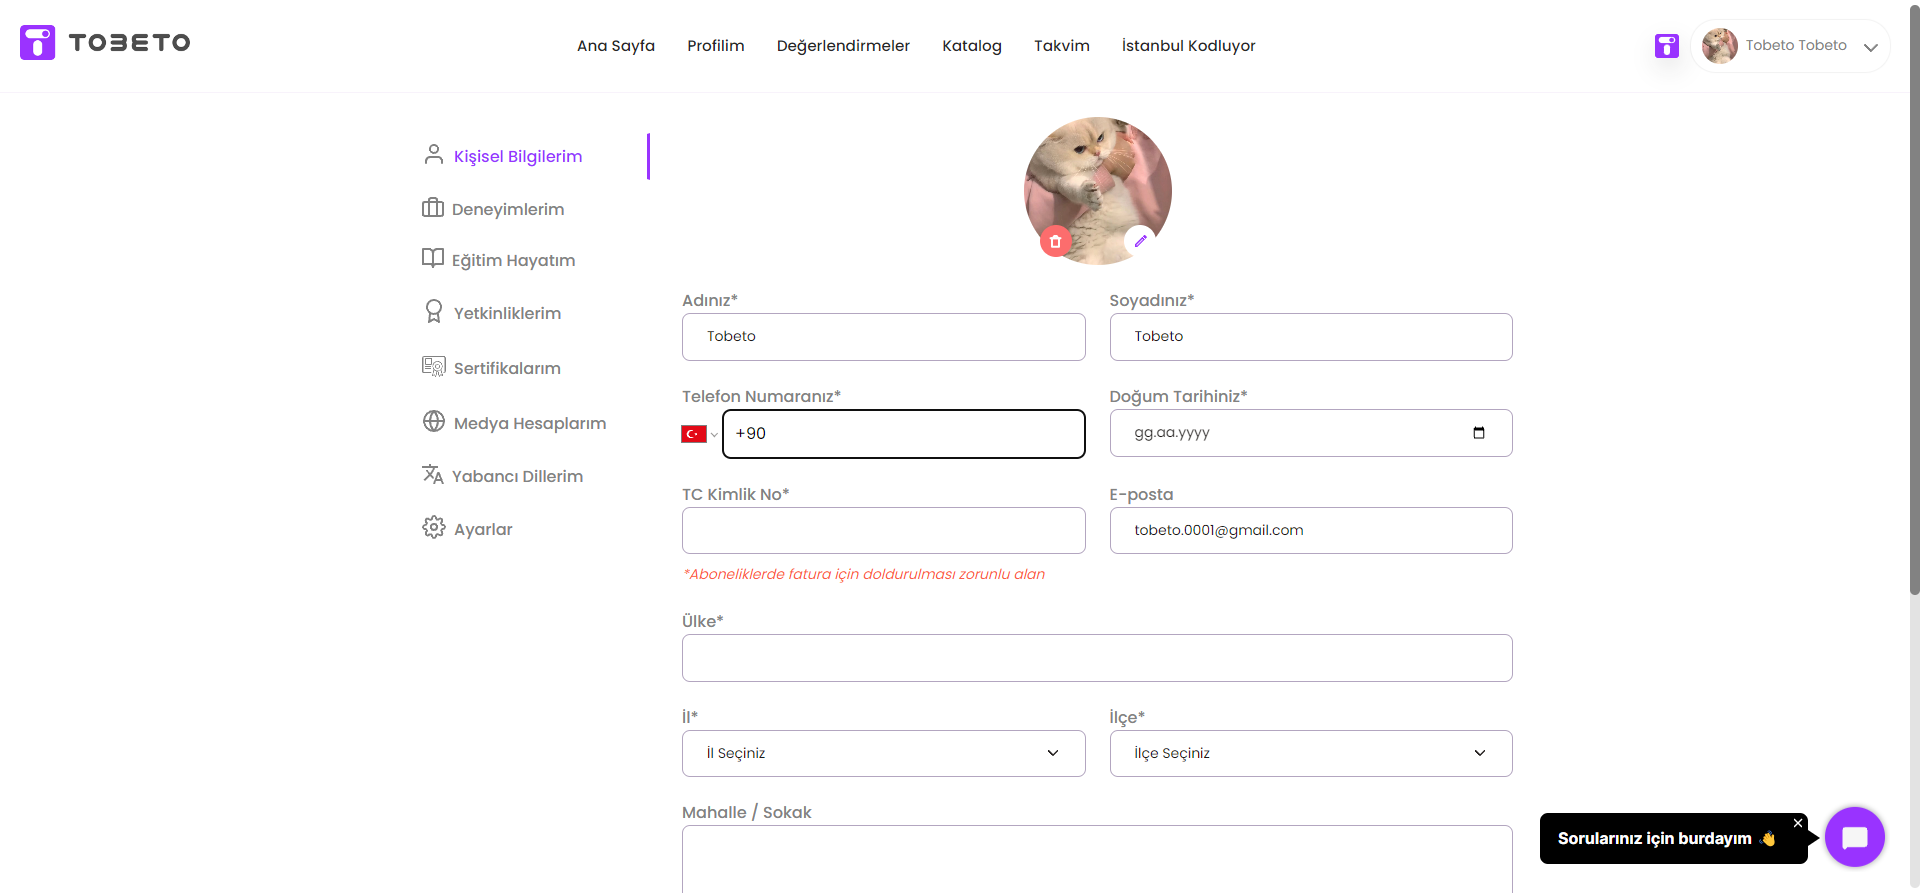
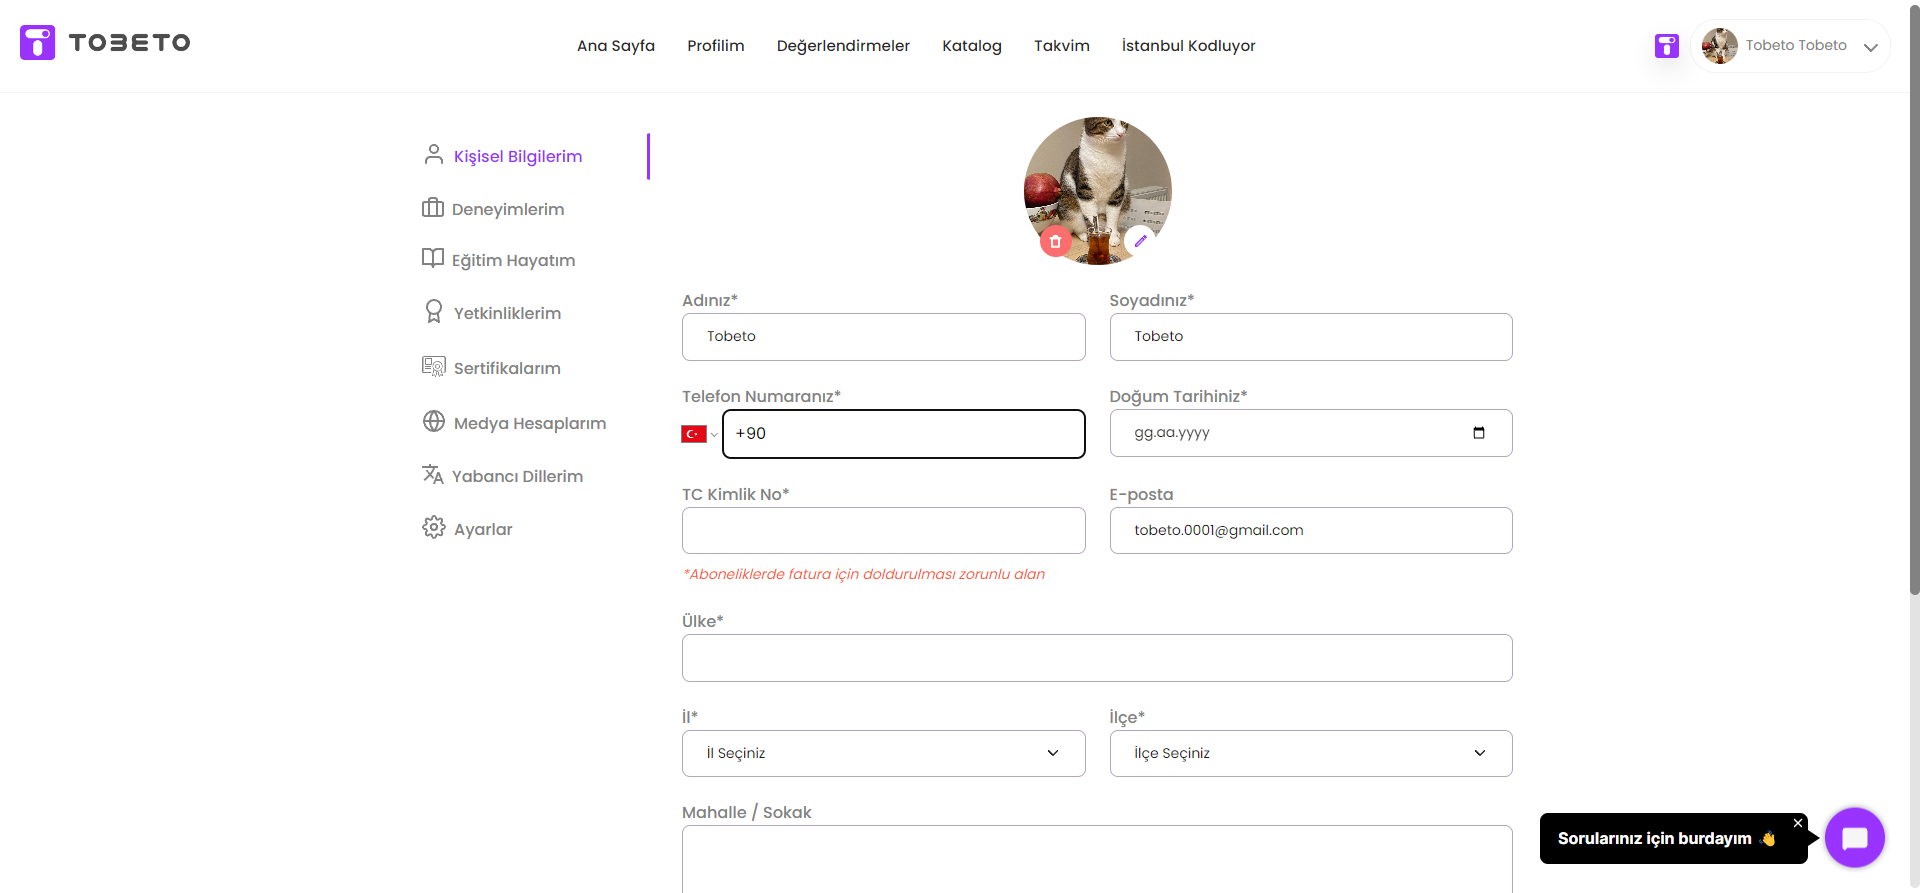
api token değişti allure report eklendi

Changed region(s): [[0.5312, 0.1209, 0.625, 0.3024], [0.875, 0.0302, 0.9062, 0.0907]]

diff --git a/tests/test_kisisel_bilgilerim.py b/tests/test_kisisel_bilgilerim.py
@@ -5,10 +5,12 @@ from pages.kisisel_bilgilerim import *
 from pages.giris import *
 from pages.PageBase import PageBase
 import softest
+import allure
 
 @pytest.mark.usefixtures("setup")
 class TestTobetoKisisel(softest.TestCase,PageBase):
-    
+
+    @allure.title("Kisisel Bilgilerim sayfasının arayüz kontrolü")
     def test_kisisel_bilgilerim_arayuz_kontrolu(self):
         
         page_base=PageBase(self.driver) 
@@ -47,6 +49,7 @@ class TestTobetoKisisel(softest.TestCase,PageBase):
         self.assert_all()
         profil_olustur.il_ilce_liste_kontrolu()
     
+    @allure.title("Profil fotoğrafının değiştirilmesi")
     def test_profil_fotografi_degisitirmesi(self):
         
         page_base=PageBase(self.driver) 
@@ -68,6 +71,7 @@ class TestTobetoKisisel(softest.TestCase,PageBase):
         time.sleep(10)
         profil_olustur.foto_cek2()
 
+    @allure.title("Doldurulması zorunlu alanların kontrolü")
     def test_doldurulmasi_zorunlu_alanlarin_kontrolu(self):
 
         page_base=PageBase(self.driver) 
@@ -88,7 +92,8 @@ class TestTobetoKisisel(softest.TestCase,PageBase):
         self.soft_assert(self.assertEqual, profil_olustur.mahalle_uyari_alani(),MAHALLE_UYARI_TEXT, "Uyari mesaji goruntulenemedi")
         self.soft_assert(self.assertEqual, profil_olustur.hakkimda_uyari_alani(),HAKKIMDA_UYARI_TEXT, "Uyari mesaji goruntulenemedi")
         self.assert_all()
-        
+    
+    @allure.title("TC kimlik alanına geçersiz karakter girilmesi")
     def test_tc_kimlik_gecersiz_karakter_girme(self):
 
         page_base=PageBase(self.driver) 
@@ -105,6 +110,7 @@ class TestTobetoKisisel(softest.TestCase,PageBase):
         
         time.sleep(2)
     
+    @allure.title("TC kimlik alanına fazla karakter girilmesi")
     def test_tc_kimlik_onbir_haneden_fazla_karakter_girme(self):
 
         page_base=PageBase(self.driver) 

diff --git a/tests_API/test_API_kisisel_bilgilerim.py b/tests_API/test_API_kisisel_bilgilerim.py
@@ -3,7 +3,7 @@ import requests
 import json
 import softest
 from tests_API.API_constants import *
-import API_get_token
+from API_get_token import *
 
 
 class TestAPI_kisisel_bilgilerim(softest.TestCase):
@@ -11,7 +11,7 @@ class TestAPI_kisisel_bilgilerim(softest.TestCase):
     def test_GET_kisisel_bilgilerim(self):
 
         end_point = base_url + "/user-profile/my"
-
+        token = APIAutoToken.API_get_token(TOBETO_AUTH_URL, TOBETO_PAYLOAD_1, TOKEN_FİLE_PATH_1)
         headers = {
             'Content-Type': 'application/json',
             'Authorization': f'Bearer {token}'
@@ -37,7 +37,7 @@ class TestAPI_kisisel_bilgilerim(softest.TestCase):
     def test_POST_kisisel_bilgilerim(self):
 
         end_point = base_url + "/user-profile/identity-number"
-
+        token = APIAutoToken.API_get_token(TOBETO_AUTH_URL, TOBETO_PAYLOAD_1, TOKEN_FİLE_PATH_1)
         headers = {
             'Content-Type': 'application/json',
             'Authorization': f'Bearer {token}'
